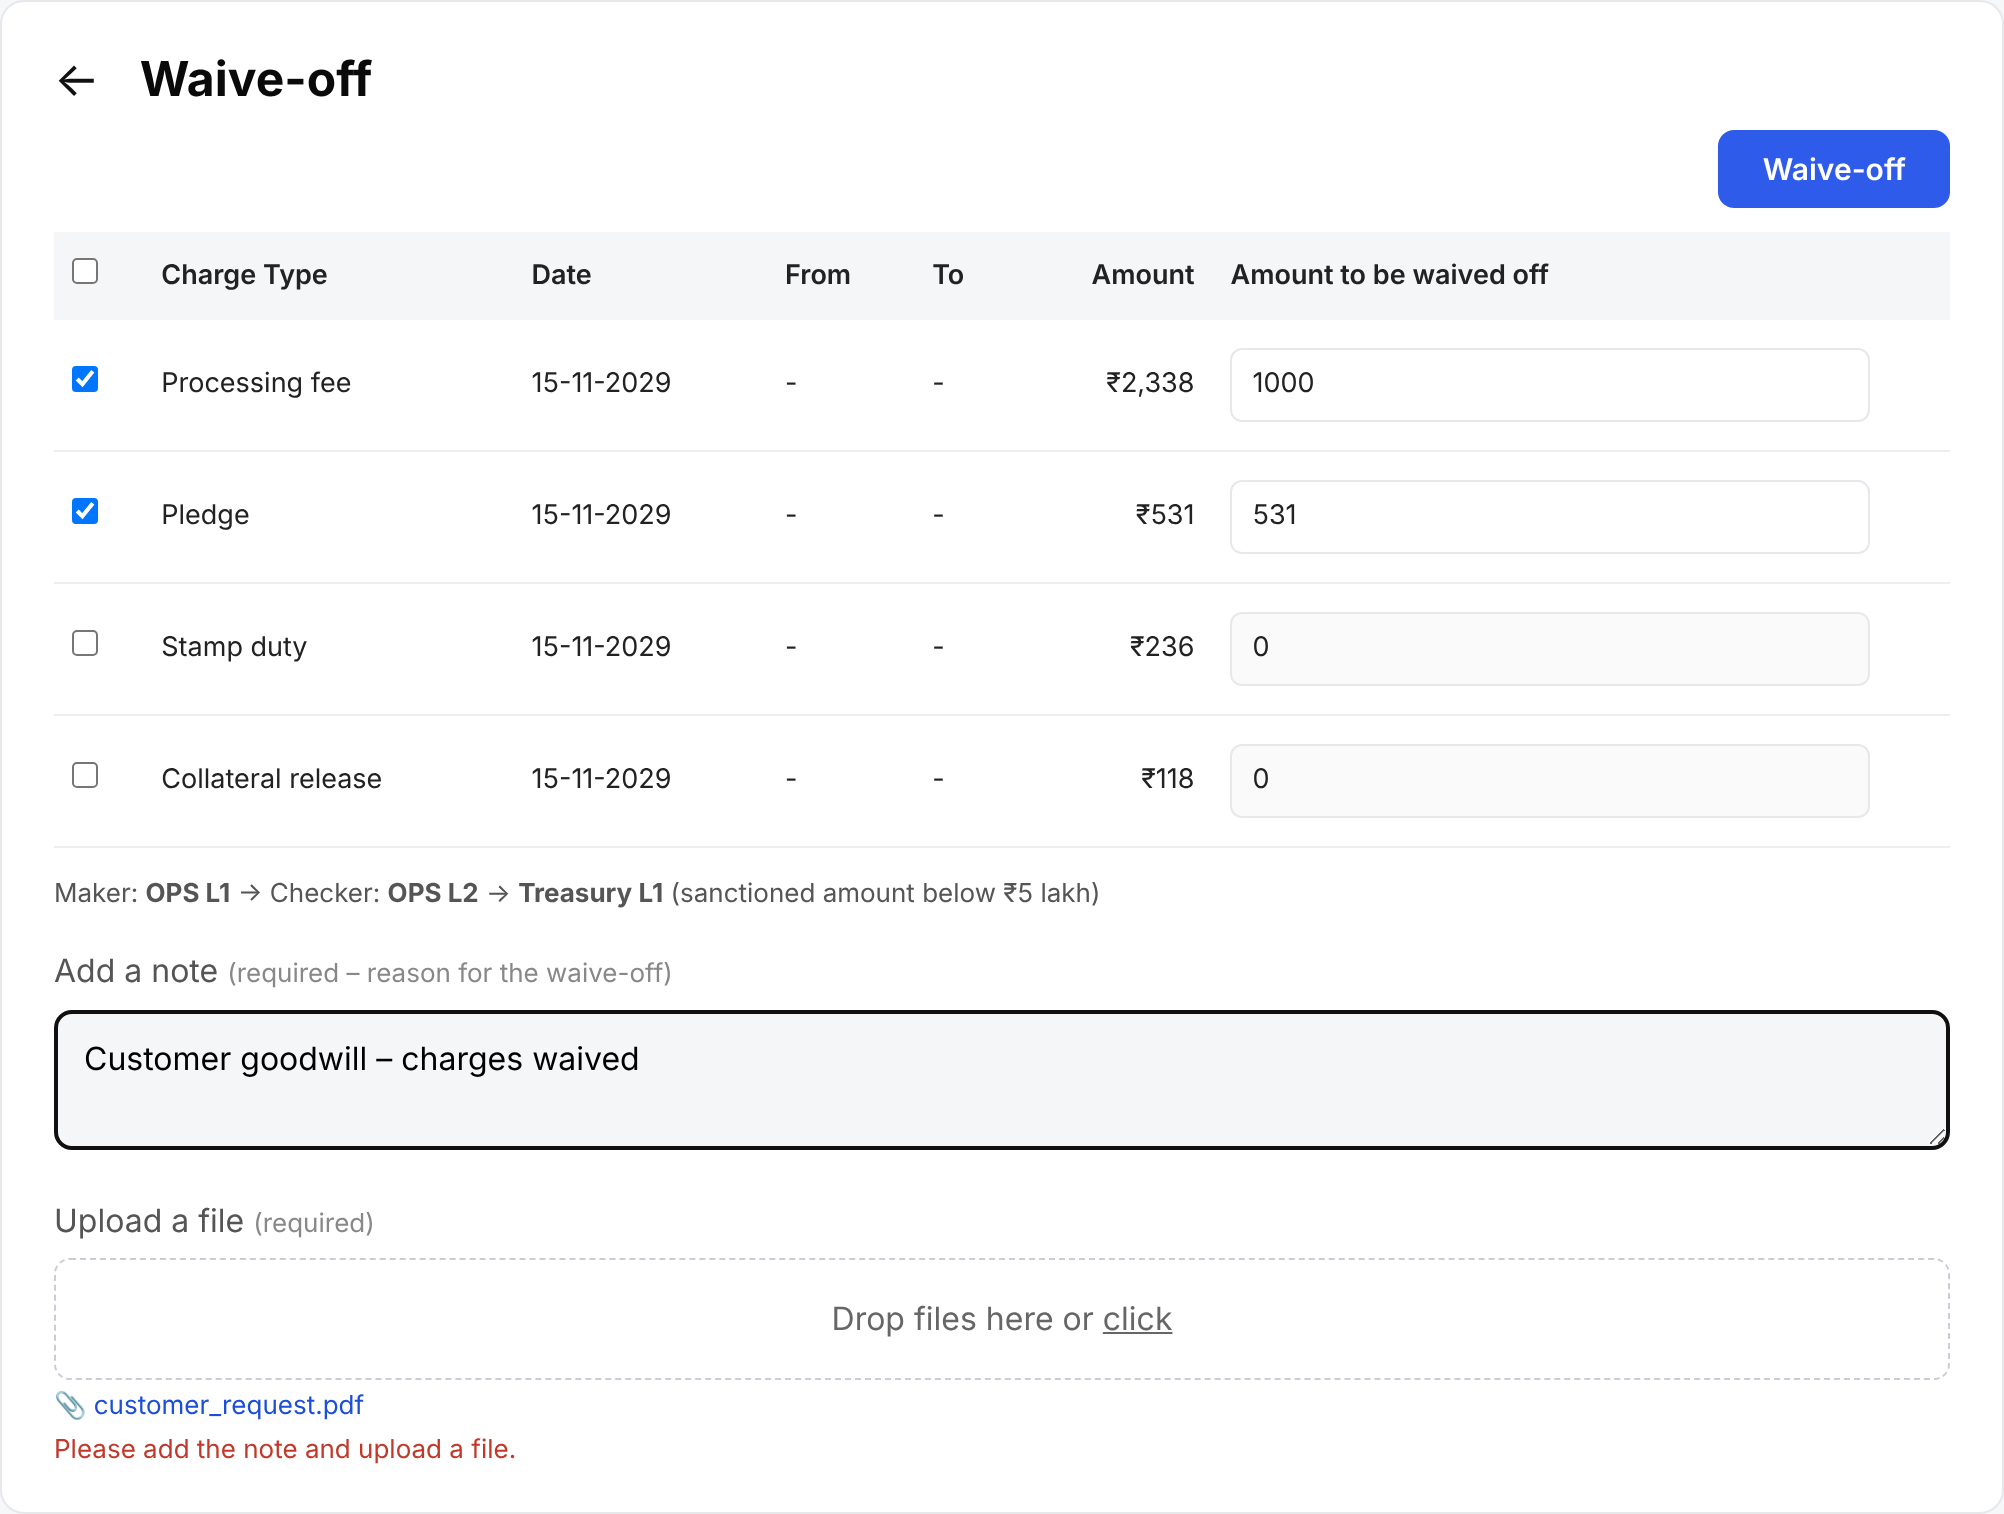
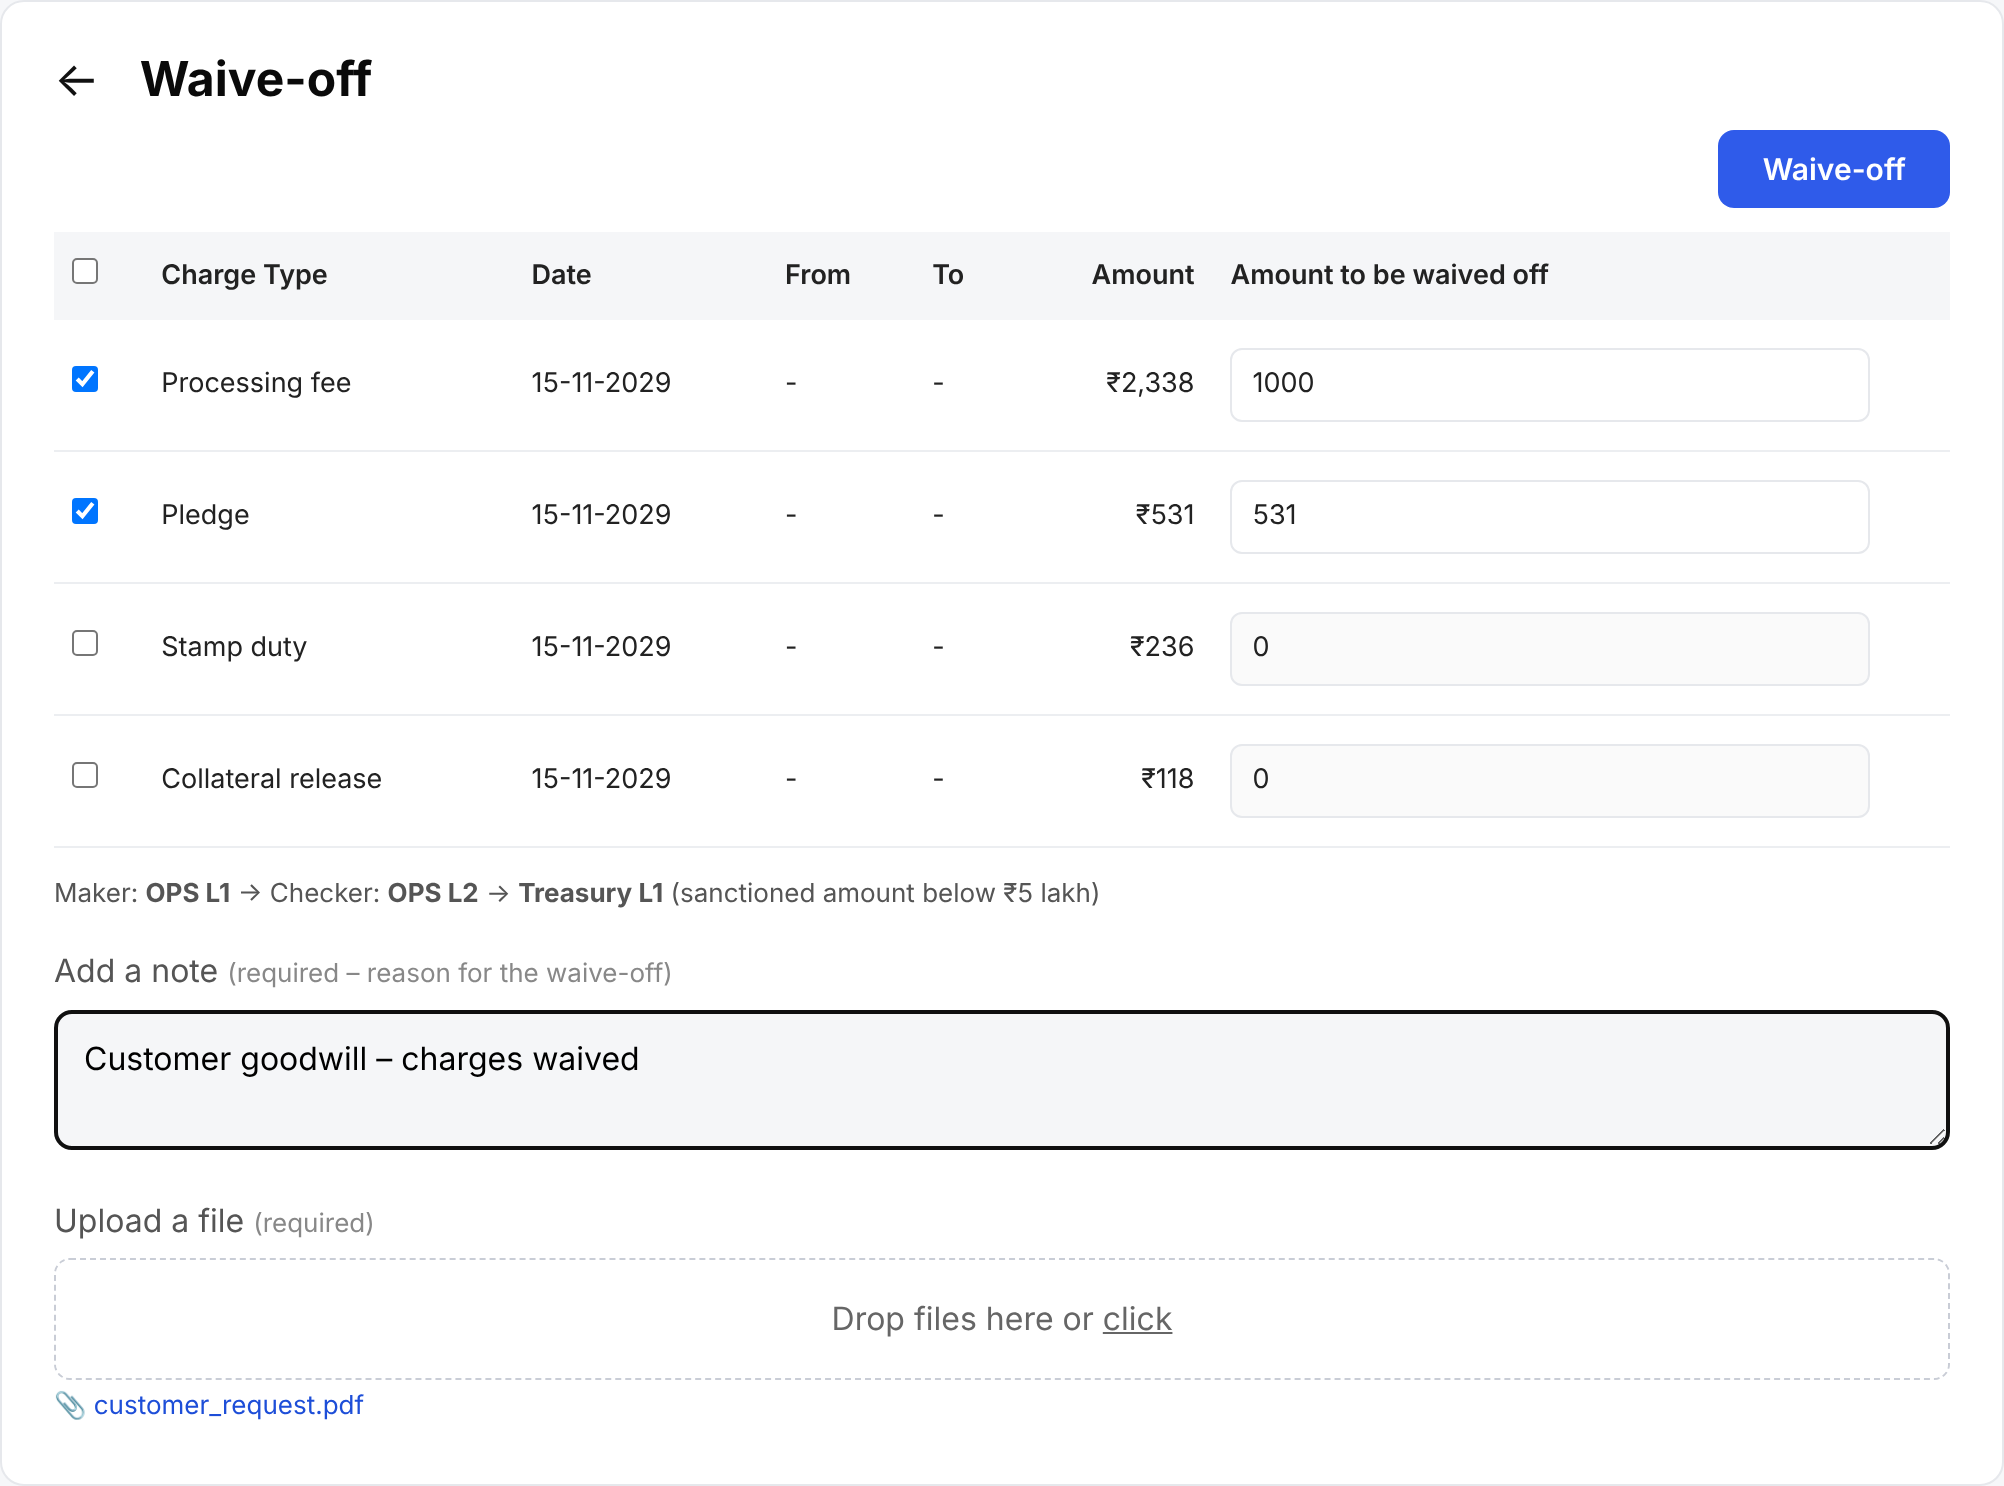
Waive-off – clear the error once the note / file is given (DISC-367)
Claude-Session: https://claude.ai/code/session_01FsVs5RNJ4JXhPDXV9bN1Kw

diff --git a/lamf-journey/lms.html b/lamf-journey/lms.html
@@ -60,7 +60,8 @@
   });
   document.addEventListener('change', function (e) {     /* show the chosen file name under the upload box */
     if (e.target.classList.contains('wv-file') || e.target.classList.contains('wv-cfile')) {
-      var fn = e.target.closest('.wv-drop').nextElementSibling; fn.textContent = e.target.files.length ? '📎 ' + e.target.files[0].name : ''; }
+      var fn = e.target.closest('.wv-drop').nextElementSibling; fn.textContent = e.target.files.length ? '📎 ' + e.target.files[0].name : '';
+      var w0 = e.target.closest('.wv'); if (w0) w0.querySelector(e.target.classList.contains('wv-file') ? '.wv-err' : '.wv-cerr').textContent = ''; }
   });
   document.addEventListener('input', function (e) { var w = e.target.closest('.wv'); if (w && e.target.classList.contains('wv-amt')) calc(w); });
   document.addEventListener('click', function (e) {
@@ -220,12 +221,16 @@
     var d = Q(w, '.wa-done'); d.hidden = false; d.className = 'wv-done wa-done wv-cancel'; d.innerHTML = msg; }
   document.addEventListener('change', function (e) { var w = e.target.closest('.wa'); if (!w) return;
     if (e.target.classList.contains('wa-file') || e.target.classList.contains('wa-cfile')) {
-      e.target.closest('.wv-drop').nextElementSibling.textContent = e.target.files.length ? '📎 ' + e.target.files[0].name : ''; return; }
+      e.target.closest('.wv-drop').nextElementSibling.textContent = e.target.files.length ? '📎 ' + e.target.files[0].name : '';
+      Q(w, e.target.classList.contains('wa-file') ? '.wa-err' : '.wa-cerr').textContent = ''; return; }
     if (e.target.classList.contains('wa-all')) w.querySelectorAll('tbody .wa-chk:not(:disabled)').forEach(function (c) { c.checked = e.target.checked;
       var a = c.closest('tr').querySelector('.wa-amt'); a.disabled = !c.checked; if (!c.checked) a.value = 0; });
     if (e.target.classList.contains('wa-chk')) { var a = e.target.closest('tr').querySelector('.wa-amt'); a.disabled = !e.target.checked; if (!e.target.checked) a.value = 0; }
     calc(w); });
-  document.addEventListener('input', function (e) { var w = e.target.closest('.wa'); if (w && e.target.classList.contains('wa-amt')) calc(w); });
+  document.addEventListener('input', function (e) { var w = e.target.closest('.wa'); if (!w) return;
+    if (e.target.classList.contains('wa-amt')) calc(w);
+    if (e.target.classList.contains('wa-note')) Q(w, '.wa-err').textContent = ''; if (e.target.classList.contains('wa-cnote')) Q(w, '.wa-cerr').textContent = '';
+    if (e.target.classList.contains('wa-tnote')) Q(w, '.wa-terr').textContent = ''; });
   document.addEventListener('click', function (e) { var w = e.target.closest('.wa'), c = e.target.classList; if (!w) return;
     if (c.contains('wv-x') || c.contains('wv-no')) e.target.closest('.wv-pop').hidden = true;
     if (c.contains('wa-btn')) { var m = [];                       /* maker – note and file required */

diff --git a/lamf-journey/tools/lms.py b/lamf-journey/tools/lms.py
@@ -276,7 +276,8 @@ WAIVER_JS = """<script>
   });
   document.addEventListener('change', function (e) {     /* show the chosen file name under the upload box */
     if (e.target.classList.contains('wv-file') || e.target.classList.contains('wv-cfile')) {
-      var fn = e.target.closest('.wv-drop').nextElementSibling; fn.textContent = e.target.files.length ? '📎 ' + e.target.files[0].name : ''; }
+      var fn = e.target.closest('.wv-drop').nextElementSibling; fn.textContent = e.target.files.length ? '📎 ' + e.target.files[0].name : '';
+      var w0 = e.target.closest('.wv'); if (w0) w0.querySelector(e.target.classList.contains('wv-file') ? '.wv-err' : '.wv-cerr').textContent = ''; }
   });
   document.addEventListener('input', function (e) { var w = e.target.closest('.wv'); if (w && e.target.classList.contains('wv-amt')) calc(w); });
   document.addEventListener('click', function (e) {
@@ -549,12 +550,16 @@ WAIVE_ACTIVE_JS = """<script>
     var d = Q(w, '.wa-done'); d.hidden = false; d.className = 'wv-done wa-done wv-cancel'; d.innerHTML = msg; }
   document.addEventListener('change', function (e) { var w = e.target.closest('.wa'); if (!w) return;
     if (e.target.classList.contains('wa-file') || e.target.classList.contains('wa-cfile')) {
-      e.target.closest('.wv-drop').nextElementSibling.textContent = e.target.files.length ? '📎 ' + e.target.files[0].name : ''; return; }
+      e.target.closest('.wv-drop').nextElementSibling.textContent = e.target.files.length ? '📎 ' + e.target.files[0].name : '';
+      Q(w, e.target.classList.contains('wa-file') ? '.wa-err' : '.wa-cerr').textContent = ''; return; }
     if (e.target.classList.contains('wa-all')) w.querySelectorAll('tbody .wa-chk:not(:disabled)').forEach(function (c) { c.checked = e.target.checked;
       var a = c.closest('tr').querySelector('.wa-amt'); a.disabled = !c.checked; if (!c.checked) a.value = 0; });
     if (e.target.classList.contains('wa-chk')) { var a = e.target.closest('tr').querySelector('.wa-amt'); a.disabled = !e.target.checked; if (!e.target.checked) a.value = 0; }
     calc(w); });
-  document.addEventListener('input', function (e) { var w = e.target.closest('.wa'); if (w && e.target.classList.contains('wa-amt')) calc(w); });
+  document.addEventListener('input', function (e) { var w = e.target.closest('.wa'); if (!w) return;
+    if (e.target.classList.contains('wa-amt')) calc(w);
+    if (e.target.classList.contains('wa-note')) Q(w, '.wa-err').textContent = ''; if (e.target.classList.contains('wa-cnote')) Q(w, '.wa-cerr').textContent = '';
+    if (e.target.classList.contains('wa-tnote')) Q(w, '.wa-terr').textContent = ''; });
   document.addEventListener('click', function (e) { var w = e.target.closest('.wa'), c = e.target.classList; if (!w) return;
     if (c.contains('wv-x') || c.contains('wv-no')) e.target.closest('.wv-pop').hidden = true;
     if (c.contains('wa-btn')) { var m = [];                       /* maker – note and file required */
